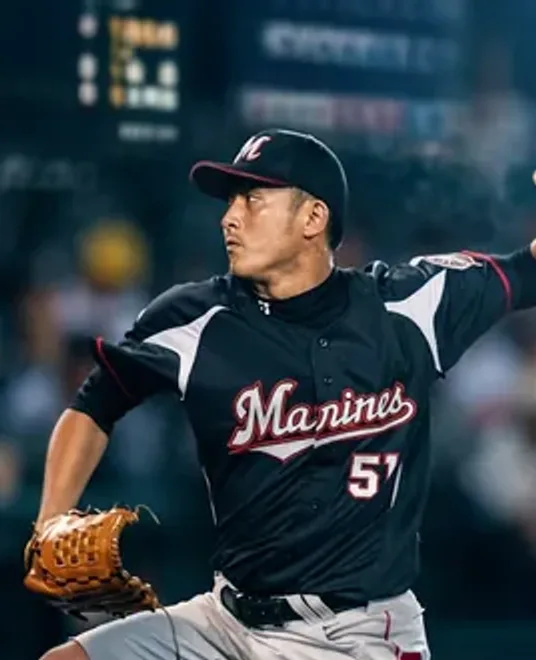
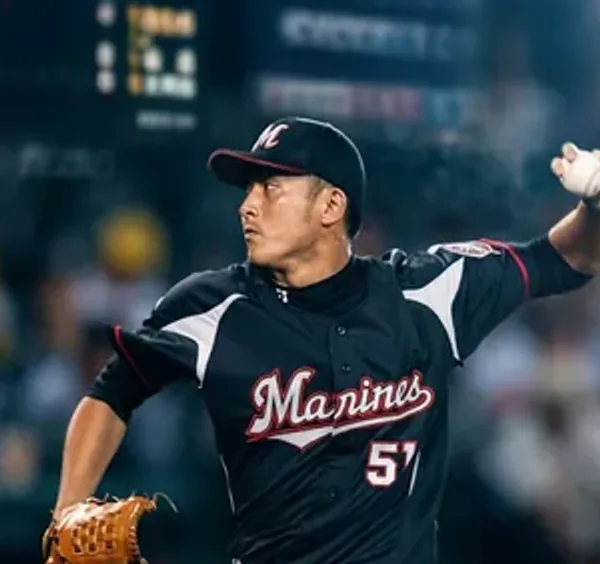
Coach section: tighter crop, 50/50 split, centred name + stats
Follow-up to the concept pass (Aaron):

- Recrop the pitcher tighter so the raised leg is out of frame, while keeping
  both arms in — the glove and the throwing arm span the full width, so the
  frame is squarer (300x282) than a portrait; that's the cost of keeping both.
- Name is centred under the round headshot, not the pitcher shot: it shares the
  circle's width and right overhang so their centres line up.
- The band is a true 50/50 split (lg:grid-cols-2). The copy column now begins at
  the midline instead of reaching back across it; the photo is capped and
  left-aligned inside its half rather than stretched to fill it.
- Stat cards centre their value and label.

Verified with Playwright at 1280px and 390px.

diff --git a/src/domains/landing/ui/Coach.tsx b/src/domains/landing/ui/Coach.tsx
@@ -24,39 +24,47 @@ import { coach } from "../model/copy";
 export function Coach() {
   return (
     <section id="coaches" className="scroll-mt-8 bg-paper-alt py-20 lg:py-28">
-      <Container className="grid items-center gap-12 lg:grid-cols-[minmax(0,380px)_minmax(0,1fr)] lg:gap-24">
+      {/* Two equal halves: the photo column and the copy column each own 50%,
+          so the copy starts at the midline instead of reaching back across it. */}
+      <Container className="grid items-center gap-12 lg:grid-cols-2 lg:gap-16">
         <div>
-          <div className="relative">
-            <div className="relative aspect-[268/330] w-full overflow-hidden">
-              <Image
-                src="/images/concept-panel-portrait.webp"
-                alt={`${coach.name}, head coach`}
-                fill
-                sizes="(min-width: 1024px) 380px, 100vw"
-                className="object-cover"
-              />
+          {/* The photo is capped and left-aligned inside its half rather than
+              stretched to fill it — a portrait blown up to 50% of the page would
+              tower over the copy. */}
+          <div className="max-w-[440px]">
+            <div className="relative">
+              <div className="relative aspect-[300/282] w-full overflow-hidden">
+                <Image
+                  src="/images/concept-panel-portrait.webp"
+                  alt={`${coach.name}, head coach`}
+                  fill
+                  sizes="(min-width: 1024px) 440px, 100vw"
+                  className="object-cover"
+                />
+              </div>
+
+              {/* The round headshot straddles the bottom-right corner of the
+                  pitcher shot — half over it, half below — so the two
+                  photographs read as one stacked portrait. */}
+              <div className="absolute -bottom-10 -right-2 h-[140px] w-[140px] overflow-hidden rounded-full ring-4 ring-highlight lg:h-[168px] lg:w-[168px]">
+                <Image
+                  src="/images/concept-round.webp"
+                  alt=""
+                  fill
+                  sizes="168px"
+                  className="object-cover"
+                />
+              </div>
             </div>
 
-            {/* The round headshot straddles the bottom-right corner of the
-                pitcher shot — half over it, half below — so the two photographs
-                read as one stacked portrait. */}
-            <div className="absolute -bottom-10 -right-2 h-[140px] w-[140px] overflow-hidden rounded-full ring-4 ring-highlight lg:h-[168px] lg:w-[168px]">
-              <Image
-                src="/images/concept-round.webp"
-                alt=""
-                fill
-                sizes="168px"
-                className="object-cover"
-              />
+            {/* Centred under the circle, not the pitcher shot: same width and
+                same right overhang as the circle, so their centres line up. */}
+            <div className="ml-auto -mr-2 mt-16 w-[140px] whitespace-nowrap text-center lg:mt-20 lg:w-[168px]">
+              <p className="font-display text-[18px] font-semibold uppercase tracking-[-0.01em] text-ink">
+                {coach.name}
+              </p>
+              <p className="mt-1 text-[15px] text-ink-muted">{coach.role}</p>
             </div>
-          </div>
-
-          {/* Cleared below the overhanging circle, and centred under it. */}
-          <div className="mt-20 text-center lg:mt-24">
-            <p className="font-display text-[18px] font-semibold uppercase tracking-[-0.01em] text-ink">
-              {coach.name}
-            </p>
-            <p className="mt-1 text-[15px] text-ink-muted">{coach.role}</p>
           </div>
         </div>
 
@@ -80,7 +88,7 @@ export function Coach() {
             {coach.stats.map((stat) => (
               <div
                 key={stat.value}
-                className="rounded-md border-2 border-accent px-5 py-2.5"
+                className="rounded-md border-2 border-accent px-5 py-2.5 text-center"
               >
                 <dt className="text-[13px] font-bold uppercase tracking-[0.04em] text-ink">
                   {stat.value}
